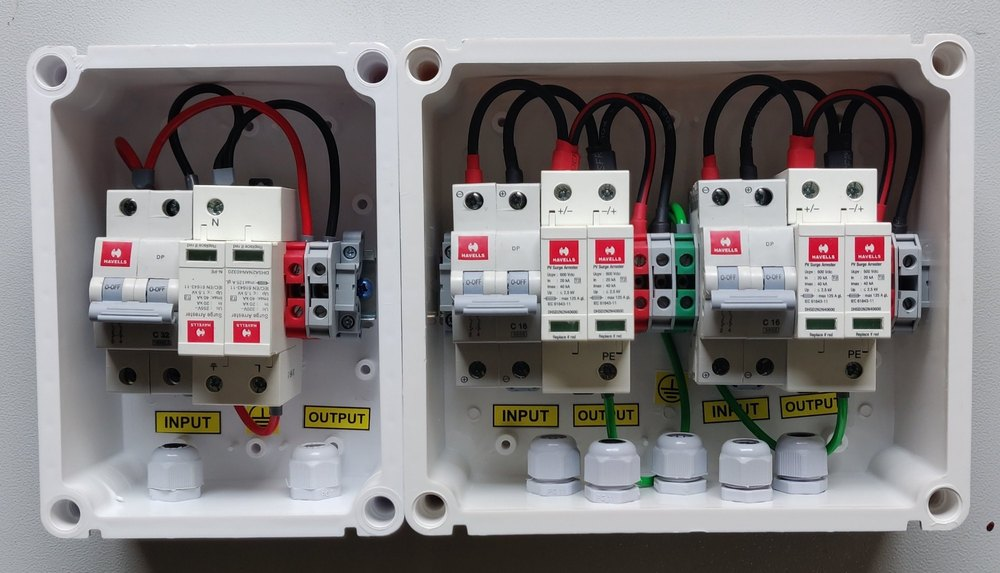
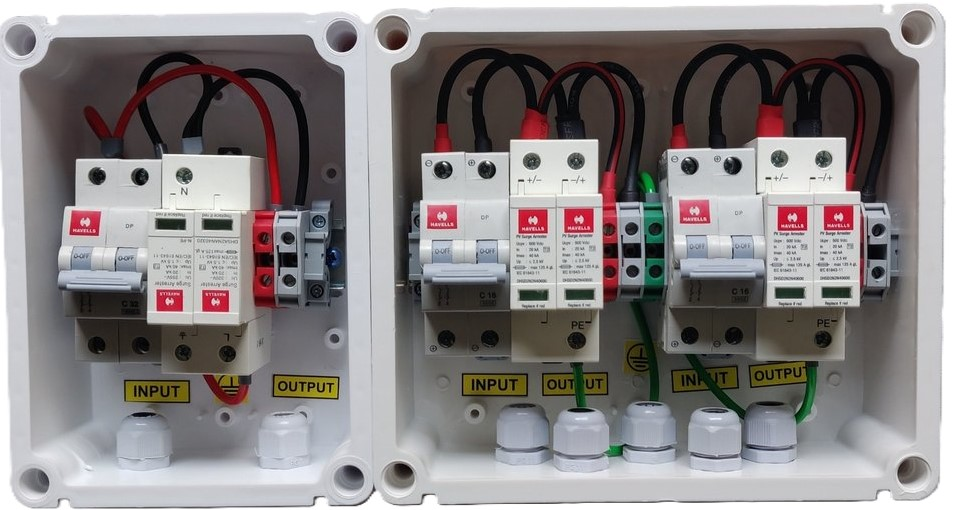
added asdb-dcdb

diff --git a/src/app/acdb-dcdb/acdb-dcdb.component.html b/src/app/acdb-dcdb/acdb-dcdb.component.html
@@ -26,17 +26,17 @@
     <p style="color: #06BBCC; font-weight: bold;">ABB 3-pole Contactor</p>
   </div>
 
-  <div class="col-md-3 px-3 img-fluid ith wow fadeInUp" data-wow-delay="0.3s">
+  <div class="col-md-3 px-3 img-fluid ith wow fadeInRight" data-wow-delay="0.3s">
     <img class="height" src="/assets/dcdbimage/head1.jpg" alt="">
     <p class="mt-4">ABB ESB-PLK24 Sealing cover</p>
 
   </div>
-  <div class="col-md-3 px-3 img-fluid ith wow fadeInUp " data-wow-delay="0.3s">
+  <div class="col-md-3 px-3 img-fluid ith wow fadeInLeft " data-wow-delay="0.3s">
     <img class="height" src="/assets/dcdbimage/head2.jpg" alt="">
     <p class="mt-4">ABB 3-pole Contactor</p>
 
   </div>
-  <div class="col-md-3 px-3 img-fluid ith wow fadeInUp" data-wow-delay="0.3s">
+  <div class="col-md-3 px-3 img-fluid ith wow fadeInDown" data-wow-delay="0.3s">
     <img class="height" src="/assets/dcdbimage/head3.jpg" alt="">
     <p class="mt-4">ABB 3-phase Contactor</p>
 
@@ -53,10 +53,10 @@
 
   <!-- first big image -->
 
-<div class=" col-md-5 img-fluid ith  wow fadeInUp " data-wow-delay="0.3s"> 
+<div class=" col-md-5 img-fluid ith  wow fadeInLeft " data-wow-delay="0.3s"> 
         <img class="big-image-height " src="assets/dcdbimage/image1.jpg" alt="">
          </div>
-     <div class=" col-md-7  px-3   ">
+     <div class= "col-md-7  px-3">
        <p class="mt-0 fs-3"><b> Overview of the Solar AC Distribution Box (ACDB): </b> </p> 
           <p class="m-0 fs-4"><b> Purpose:</b></p>
           <p class="mt-0 fs-5" style="text-align: justify;"> <li>Provides protection against electrical faults, ensuring the safety of the system and connected appliances.</li></p>
@@ -117,27 +117,30 @@
 
     <!-- fourth image line -->
 
+    
+
+
       <div class="row g-2 mt-5">
-        <div class=" col-md-3 px-3 img-fluid ith card mt-10  wow fadeInUp"data-wow-delay="0.3s">
+        <div class=" col-md-3 px-3 img-fluid ith card mt-10  wow fadeInLeft"data-wow-delay="0.3s">
         <img  class="height" src="assets/img/pic5.jpg" alt="">
         <p class="mt-4" style="text-decoration: underline; color: #06BBCC; font-size: 18px;"> <b>Key Features:</b></p>
         <p class="mt-0"> <span style="color: #06BBCC;"><b>【Suitable / Ideal】</b></span> This 1 in 1 out 600V DCDB is suitable for all types of solar panels. It support 1 string of up to 12 nos solar panels (600V). This DC distribution box will provide multiple protections to your DC circuits and components that are connected to your solar system. </p> 
         <p class="mt-0"><span style="color: #06BBCC;"><b>【DC MCB】</b></span>Best quality self-tripping DC MCB for protection of solar panel string and solar equipment from short-circuiting/high current (amperes). This DC MCB will automatically break the DC circuit by tripping itself if any disturbance occurs in the DC supply.</p>
       </div>
-    <div class=" col-md-3 px-3 img-fluid ith card  wow fadeInUp" data-wow-delay="0.3s">
+    <div class=" col-md-3 px-3 img-fluid ith card  wow fadeInUp " data-wow-delay="0.3s">
         <img  class="height" src="assets/img/pic6.jpg" alt="">
         <p class="mt-4" style="text-decoration: underline; color: #06BBCC; font-size: 18px;"> <b>Key Features:</b></p>
         <p class="mt-0"> <span style=" color: #06BBCC;"><b>【Suitable / Ideal】</b></span>This 1 in 1 out 600V DCDB is suitable for all types of solar panels. It support 1 string of up to 12 nos solar panels (600V). This DC distribution box will provide multiple protections to your DC circuits and components that are connected to your solar system.  </p>
         <p class="mt-0"><span style="color: #06BBCC;"><b>【DC Fuse & Fuse Holder】</b></span>  Best quality self-blown DC fuse with DC fuse holder for protection of solar panel string and solar equipment from short-circuiting/high current (amperes). This DC fuse will automatically break the DC circuit by blowing itself if any disturbance occurs in the DC supply.</p>
       </div>
-    <div class=" col-md-3 px-3 img-fluid ith card  wow fadeInUp" data-wow-delay="0.3s">
-        <img class="height" src="assets/img/pic7.webp" alt="">
+    <div class=" col-md-3 px-3 img-fluid ith card  wow  fadeInDown" data-wow-delay="0.3s">
+        <img class="height" src="assets/dcdbimage/pic7.jpg" alt="">
         <p class="mt-4" style="text-decoration: underline; color: #06BBCC; font-size: 18px;"> <b>Key Features:</b></p>
         <p class="mt-0"> <span style="color: #06BBCC;"><b>[ Eqquipped with high efficiency SPD ]</b></span>  Eqquipped with high efficiency SPD to protect your solar inverter/DC appliances and DC circuits before any mishap by diverting excess voltage.  </p>
         <p class="mt-0"><span style="color: #06BBCC;"><b>[ Best quality self-blown DC fuse ]</b></span> Best quality self-blown DC fuse with DC fuse holder for protection of solar panel strings and solar equipment from short-circuiting/high current (amperes).</p>
         <p class="mt-0"><span style="color: #06BBCC;"><b>[ 1 year warranty ]</b></span>  This entire AJB comes with 1 year warranty. So you can buy it withou.t any worry.</p>
       </div>
-    <div class=" col-md-3 px-3 img-fluid ith card  wow fadeInUp" data-wow-delay="0.3s">
+    <div class=" col-md-3 px-3 img-fluid ith card  wow fadeInRight" data-wow-delay="0.3s">
         <img  class="height" src="assets/img/pic9.jpg" alt="">
         <p class="mt-4" style="text-decoration: underline; color: #06BBCC; font-size: 18px;"> <b>Key Features:</b></p>
         <p class="mt-0"> <span style="color: #06BBCC;"><b>[ Eqquipped with high efficiency SPD ]</b></span> Eqquipped with high efficiency SPD to protect your solar inverter/DC appliances and DC circuits before any mishap by diverting excess voltage.</p>
